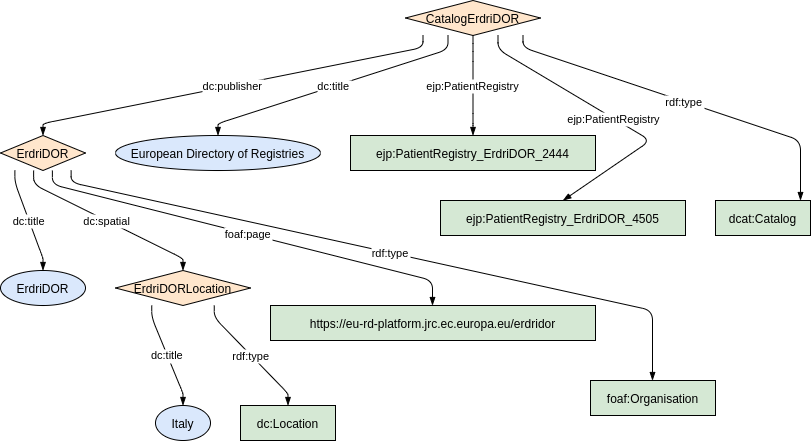
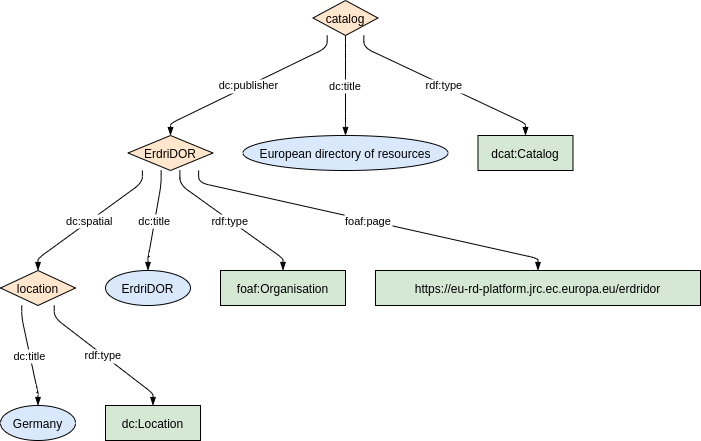
catalog module changed

diff --git a/docs/catalog.md b/docs/catalog.md
@@ -18,18 +18,17 @@
 @prefix ejp:   <http://purl.org/ejp-rd/vocabulary/> .
 @prefix foaf:  <http://xmlns.com/foaf/0.1/> .
 
-:ErdriDORLocation a dct:Location ;
-  dct:title  "Italy" .
+:location a dct:Location ;
+  dct:title  "Germany" .
 
 :ErdriDOR  a  foaf:Organisation ;
   dct:title "ErdriDOR";
-  dct:spatial  :ErdriDORLocation ;
+  dct:spatial  :location ;
   foaf:page    <https://eu-rd-platform.jrc.ec.europa.eu/erdridor/> .
 
-:CatalogErdriDOR a dcat:Catalog ;
+:catalog a dcat:Catalog ;
   dct:publisher :ErdriDOR ;
-  dct:title "European Directory of Registries" ;
-  ejp:PatientRegistry :PatientRegistry_ErdriDOR_2444, :PatientRegistry_ErdriDOR_4505 .
+  dct:title "European directory of resources" .
 ```
 
 ***
@@ -59,7 +58,9 @@ PREFIX xsd: <http://www.w3.org/2001/XMLSchema#>
   a [dcat:Catalog];
   dct:title xsd:string;
   dct:publisher @:organisationShape;
-  ejp:PatientRegistry IRI*
+  ejp:patientRegistry IRI*;
+  ejp:biobank IRI*;
+  ejp:guideline IRI*
 }
 
 :locationShape IRI {
@@ -73,4 +74,79 @@ PREFIX xsd: <http://www.w3.org/2001/XMLSchema#>
   dct:spatial @:locationShape;
   foaf:page IRI
 }
+```
+
+#### Note
+The properties `ejp:patientRegistry`, `ejp:biobank`, `ejp:guideline` are mentioned as `optional` in the ShEx. It is because these properties are need to be used based on the child resources represented in the catalog. See the example RDF below to get an idea how to use these properties.
+
+##### Example rdf for biobanks (turtle)
+
+```ttl
+@prefix : <http://purl.org/ejp-rd/metadata-model/v1/example-rdf/> .
+@prefix dcat:  <http://www.w3.org/ns/dcat#> .
+@prefix dct:   <http://purl.org/dc/terms/> .
+@prefix ejp:   <http://purl.org/ejp-rd/vocabulary/> .
+@prefix foaf:  <http://xmlns.com/foaf/0.1/> .
+
+:location a dct:Location ;
+  dct:title  "Germany" .
+
+:ErdriDOR  a  foaf:Organisation ;
+  dct:title "ErdriDOR";
+  dct:spatial  :location ;
+  foaf:page    <https://eu-rd-platform.jrc.ec.europa.eu/erdridor/> .
+
+:catalog a dcat:Catalog ;
+  dct:publisher :ErdriDOR ;
+  dct:title "European directory of biobanks" ;
+  ejp:biobank :biobank1, :biobank2 .
+```
+
+
+##### Example rdf for patient registries (turtle)
+
+```ttl
+@prefix : <http://purl.org/ejp-rd/metadata-model/v1/example-rdf/> .
+@prefix dcat:  <http://www.w3.org/ns/dcat#> .
+@prefix dct:   <http://purl.org/dc/terms/> .
+@prefix ejp:   <http://purl.org/ejp-rd/vocabulary/> .
+@prefix foaf:  <http://xmlns.com/foaf/0.1/> .
+
+:location a dct:Location ;
+  dct:title  "Germany" .
+
+:ErdriDOR  a  foaf:Organisation ;
+  dct:title "ErdriDOR";
+  dct:spatial  :location ;
+  foaf:page    <https://eu-rd-platform.jrc.ec.europa.eu/erdridor/> .
+
+:catalog a dcat:Catalog ;
+  dct:publisher :ErdriDOR ;
+  dct:title "European directory of patient registries" ;
+  ejp:patientRegistry :patientRegistry1, :patientRegistry2 .
+```
+
+
+
+##### Example rdf for guidelines (turtle)
+
+```ttl
+@prefix : <http://purl.org/ejp-rd/metadata-model/v1/example-rdf/> .
+@prefix dcat:  <http://www.w3.org/ns/dcat#> .
+@prefix dct:   <http://purl.org/dc/terms/> .
+@prefix ejp:   <http://purl.org/ejp-rd/vocabulary/> .
+@prefix foaf:  <http://xmlns.com/foaf/0.1/> .
+
+:location a dct:Location ;
+  dct:title  "Germany" .
+
+:ErdriDOR  a  foaf:Organisation ;
+  dct:title "ErdriDOR";
+  dct:spatial  :location ;
+  foaf:page    <https://eu-rd-platform.jrc.ec.europa.eu/erdridor/> .
+
+:catalog a dcat:Catalog ;
+  dct:publisher :ErdriDOR ;
+  dct:title "European directory of patient guidelines" ;
+  ejp:guideline :guideline1, :guideline2 .
 ```
